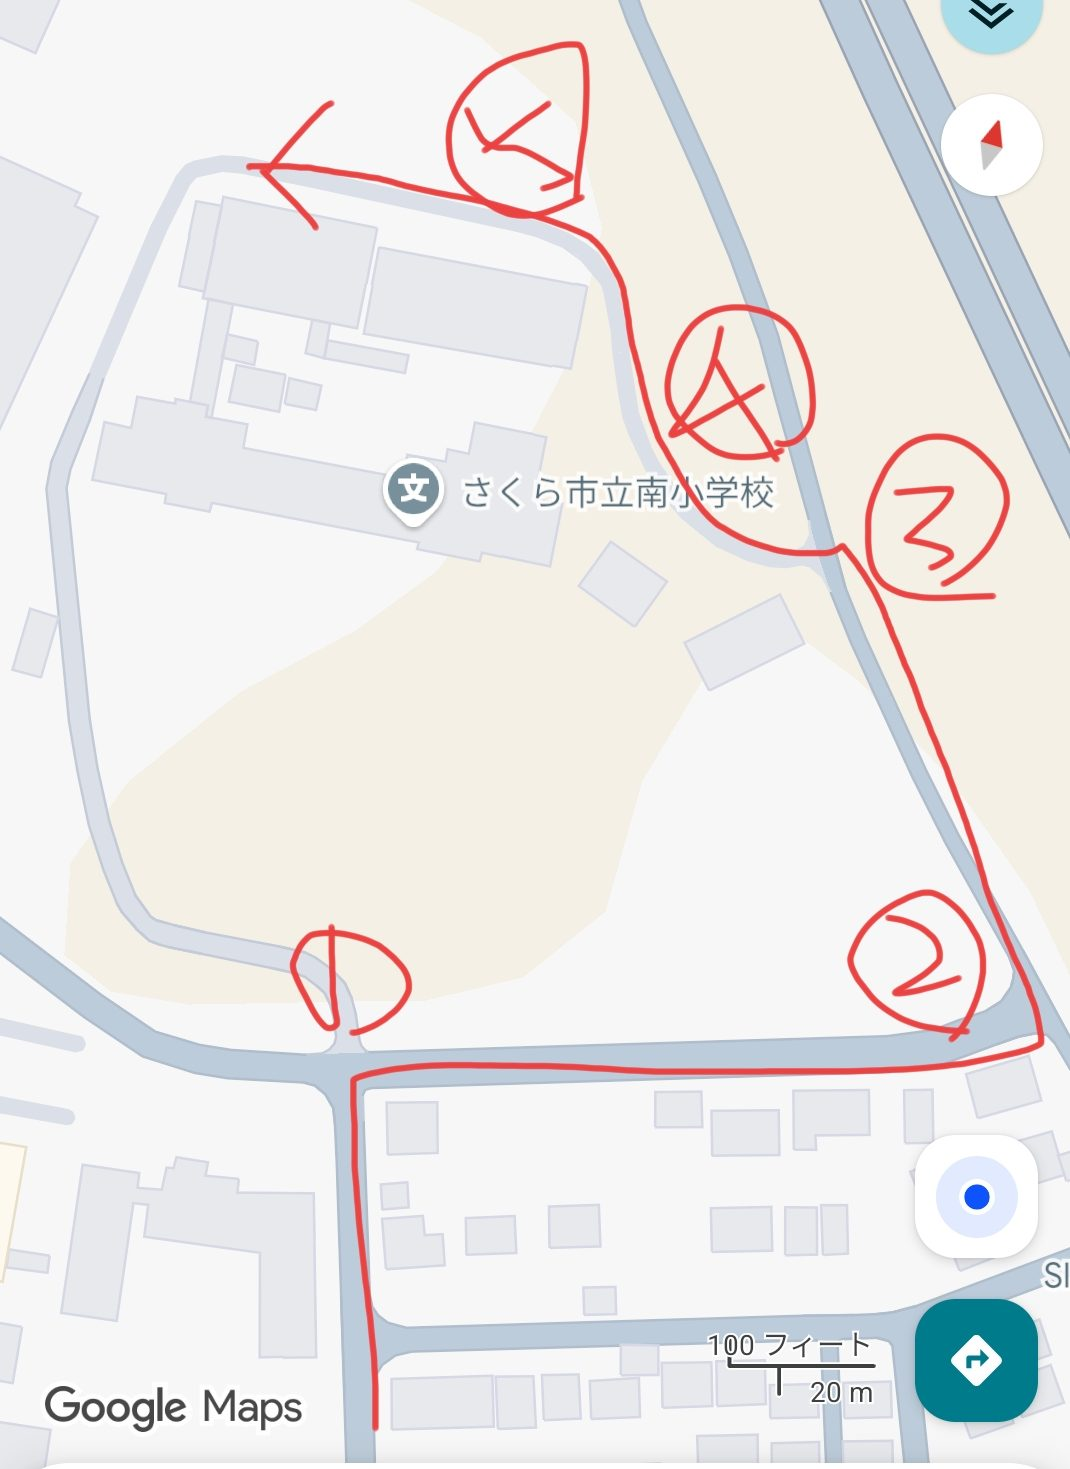
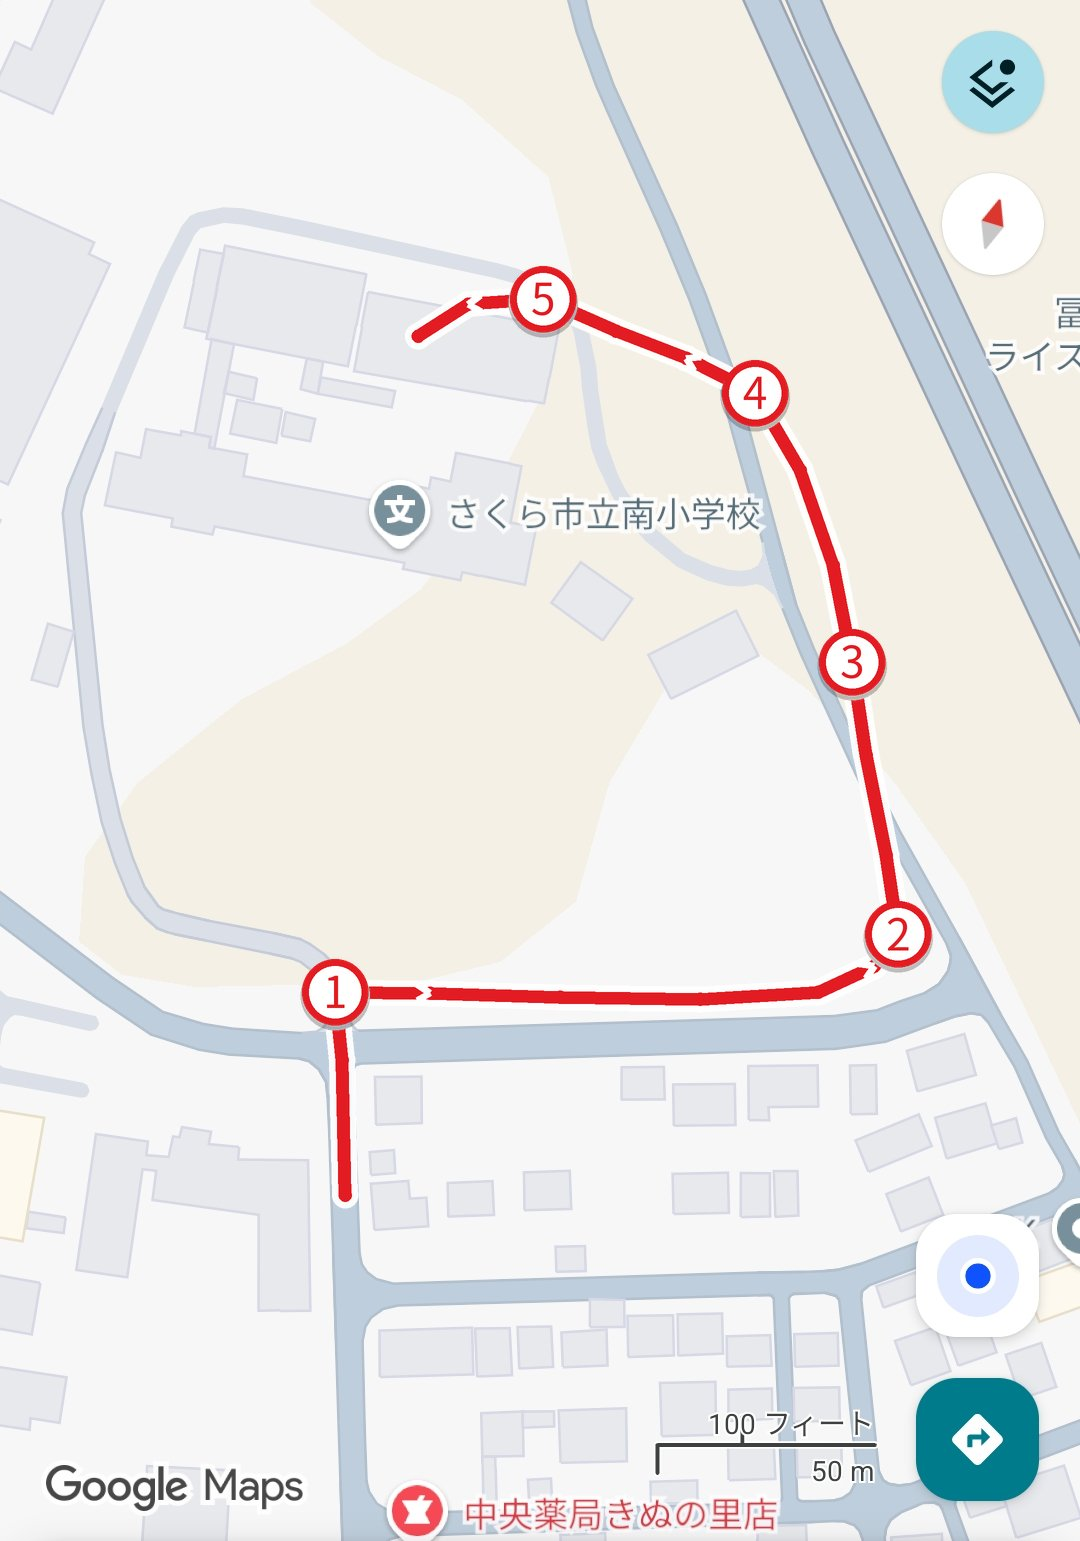
ルート地図を清書版に差し替え、案内図の方位記号を修正
- 手描きルートを、書き込みなしのクリーンな地図上にきれいに描き直し
  （滑らかな順路ライン・進行方向の矢印・①〜⑤の番号マーカー）
- 駐車場案内図の方位記号を修正。建物の向き（実地図＝東西／案内図＝
  縦）と配置の照合から、案内図の北は「左」方向のため mapNorthDeg=-90 に
- コンパスの「N」ラベルは回転後も正立するよう分離・逆回転で描画

Claude-Session: https://claude.ai/code/session_016LZMN5DLigLsjGgiJkFnTh

diff --git a/minami-gym-guide.html b/minami-gym-guide.html
@@ -122,6 +122,10 @@
     filter:drop-shadow(0 2px 6px rgba(0,0,0,.28));pointer-events:none;z-index:2;
   }
   .compass svg{display:block;width:100%;height:100%}
+  .compass-n{
+    position:absolute;top:1px;left:50%;transform-origin:center;
+    font:800 13px/1 'M PLUS Rounded 1c',system-ui,sans-serif;color:#e5484d;
+  }
 
   /* ライトボックス（拡大表示） */
   .lightbox{
@@ -292,7 +296,7 @@ const CONFIG = {
   // --- ② 駐車場のご案内 ---
   guideMap        : "minami-gym-parking-map.png",
   guideMapCaption : "赤い枠が来場チーム用の駐車場です。図はタップで拡大できます。",
-  mapNorthDeg     : 0,   // 案内図の北の向き（0=上が北）。実際の向きに合わせて回転できます
+  mapNorthDeg     : -90,  // 案内図の北の向き（0=上が北 / -90=左が北 / 90=右が北 / 180=下が北）
 
   // 駐車場の案内（行は自由に増減OK）
   parking : [
@@ -364,15 +368,14 @@ function bindZoom(el){
   el.addEventListener('keydown', (e) => { if (e.key === 'Enter' || e.key === ' ') open(e); });
 }
 
-// 方位記号（コンパス）SVG
+// 方位記号（コンパス）SVG ※針のみ。北の方角は mapNorthDeg で回転
 const COMPASS_SVG = `
 <svg viewBox="0 0 64 64" xmlns="http://www.w3.org/2000/svg" role="img" aria-label="方位">
   <circle cx="32" cy="32" r="30" fill="#ffffff" fill-opacity="0.93"/>
   <circle cx="32" cy="32" r="30" fill="none" stroke="#e0d6c4" stroke-width="2"/>
-  <polygon points="32,17 38,34 32,30 26,34" fill="#e5484d"/>
-  <polygon points="32,51 38,34 32,38 26,34" fill="#9a8f7d"/>
+  <polygon points="32,16 38,34 32,30 26,34" fill="#e5484d"/>
+  <polygon points="32,52 38,34 32,38 26,34" fill="#9a8f7d"/>
   <circle cx="32" cy="34" r="2.6" fill="#2b2118"/>
-  <text x="32" y="14" text-anchor="middle" font-size="12" font-weight="800" fill="#e5484d">N</text>
 </svg>`;
 
 // ① 車ルート地図＋チェックポイント
@@ -399,7 +402,8 @@ const COMPASS_SVG = `
   const wrap = document.getElementById('guideMapWrap');
   if (CONFIG.guideMap) {
     const deg = Number(CONFIG.mapNorthDeg) || 0;
-    const compass = `<div class="compass" style="transform:rotate(${deg}deg)">${COMPASS_SVG}</div>`;
+    const compass = `<div class="compass" style="transform:rotate(${deg}deg)">${COMPASS_SVG}` +
+      `<span class="compass-n" style="transform:translateX(-50%) rotate(${-deg}deg)">N</span></div>`;
     wrap.innerHTML = zoomableMap(CONFIG.guideMap,
       'さくら市立南小学校 体育館周辺 駐車場ご案内図', CONFIG.guideMapCaption, compass);
     bindZoom(wrap.querySelector('.guidemap'));
